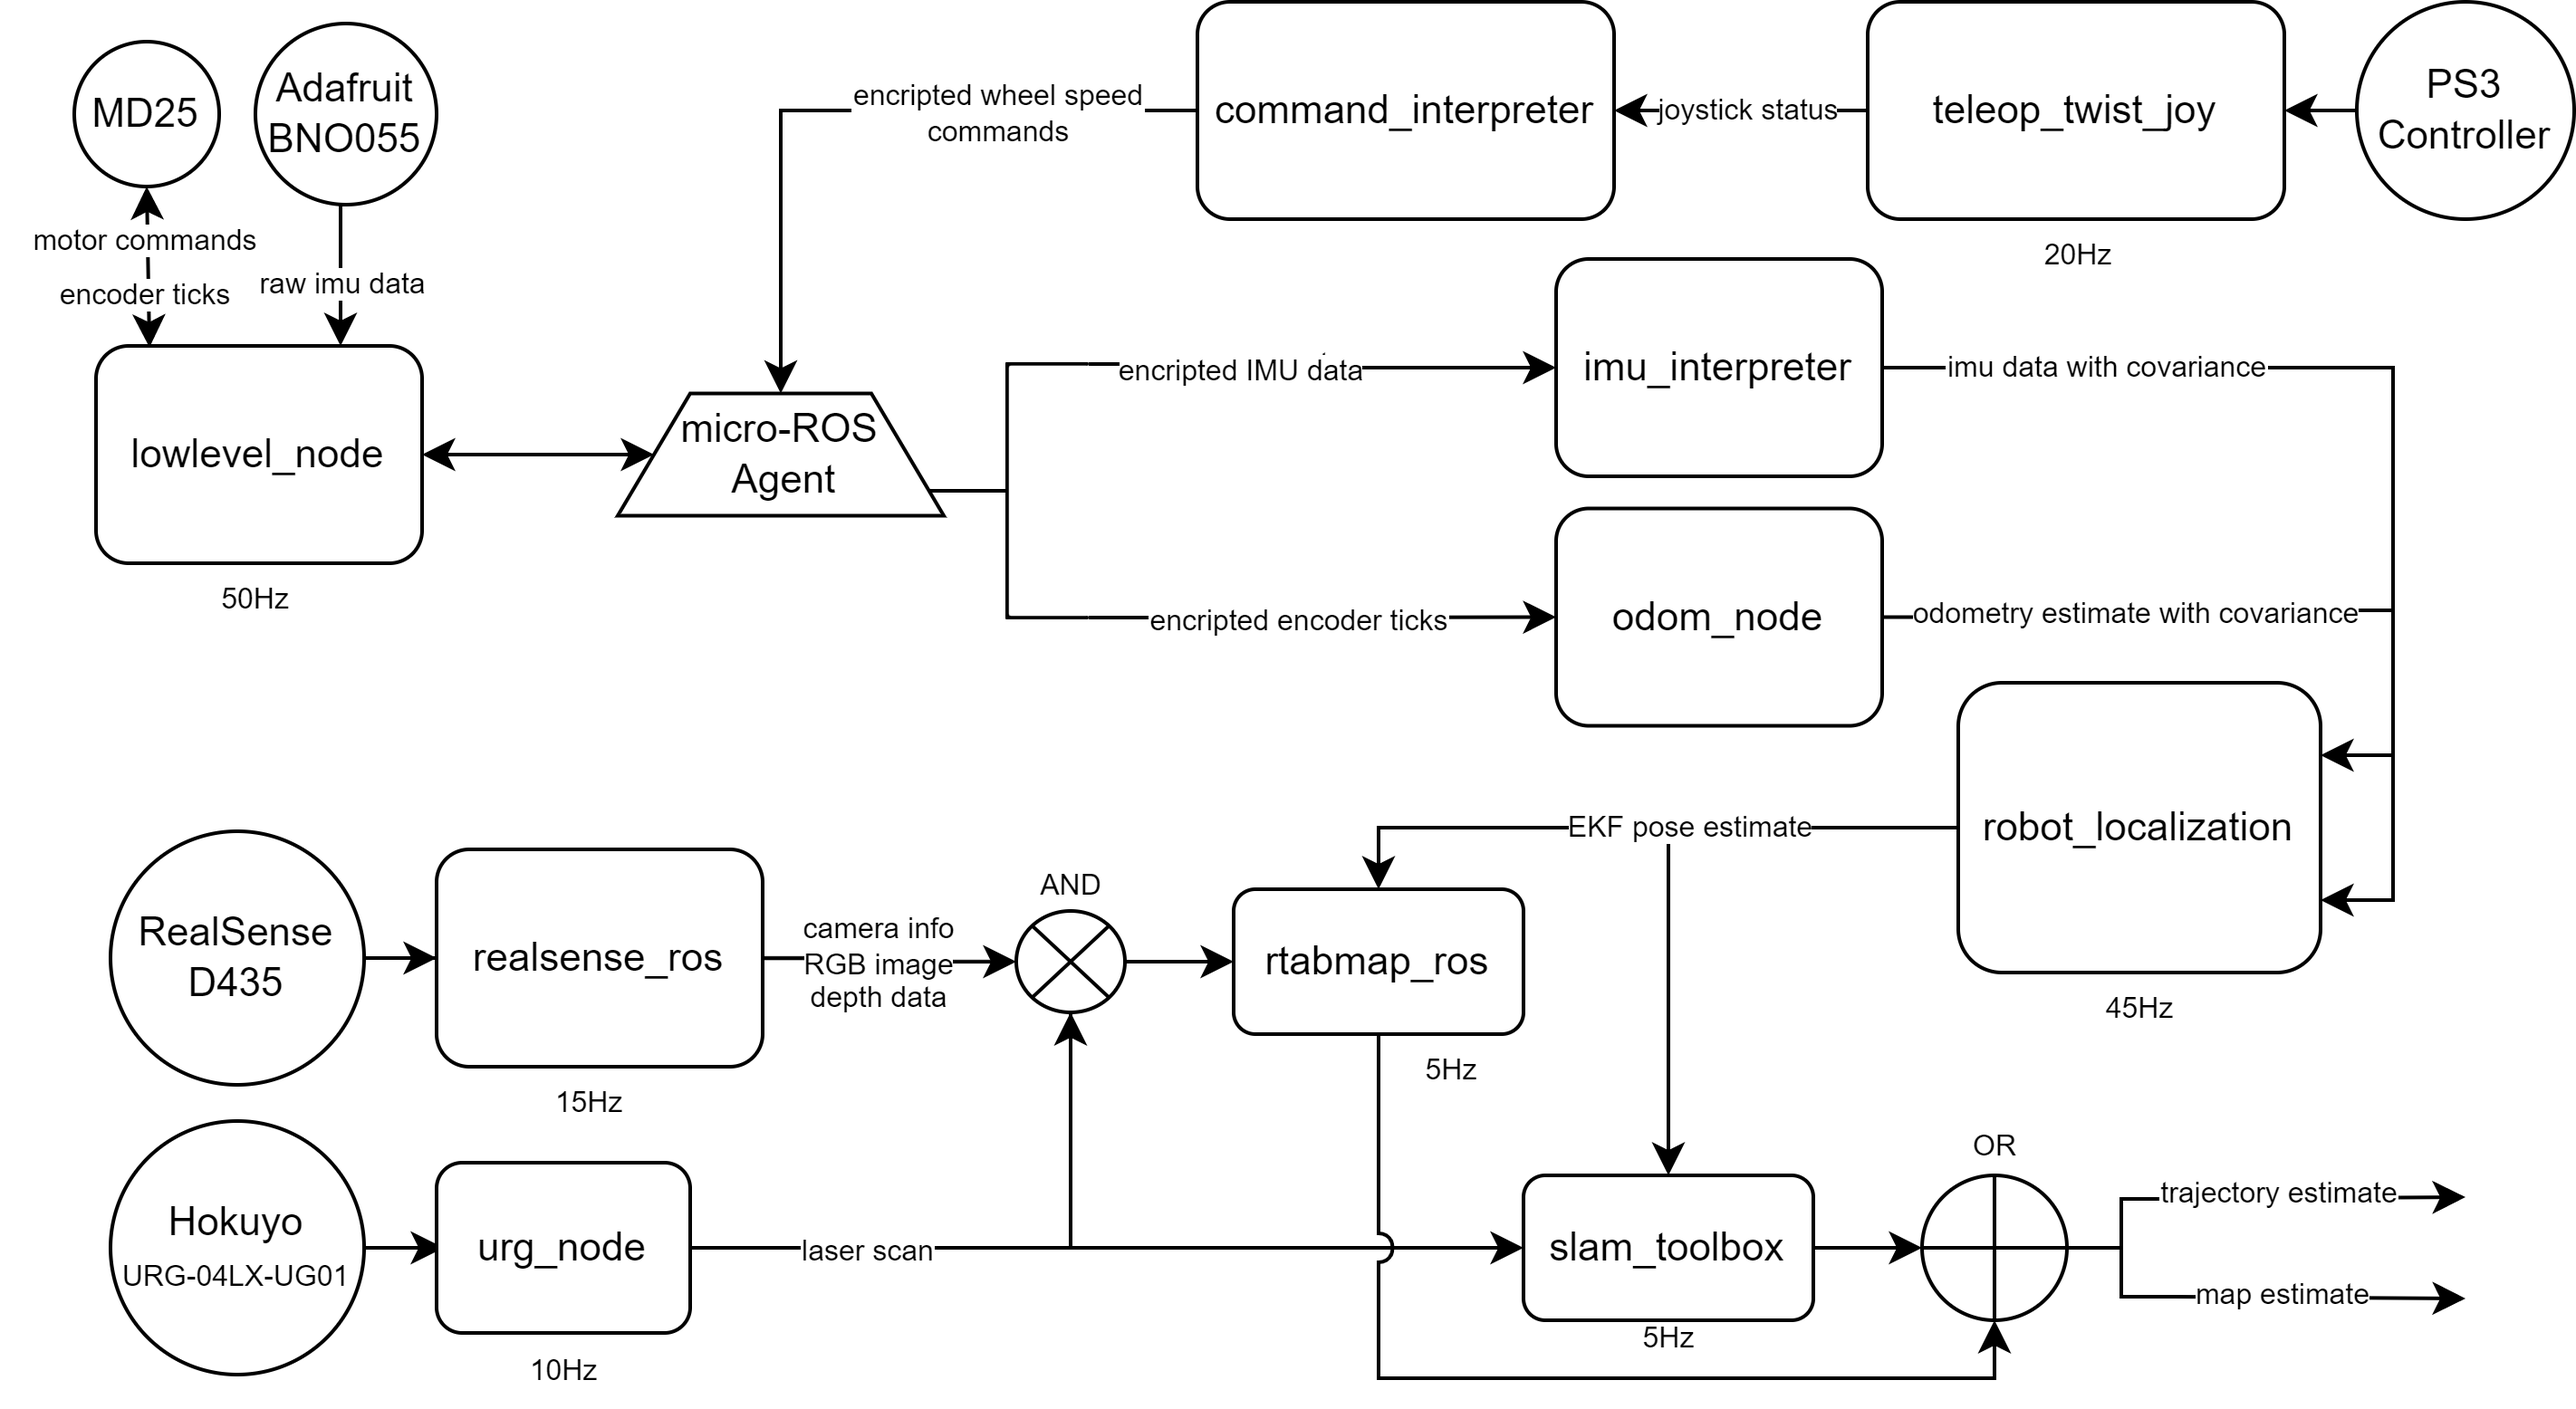
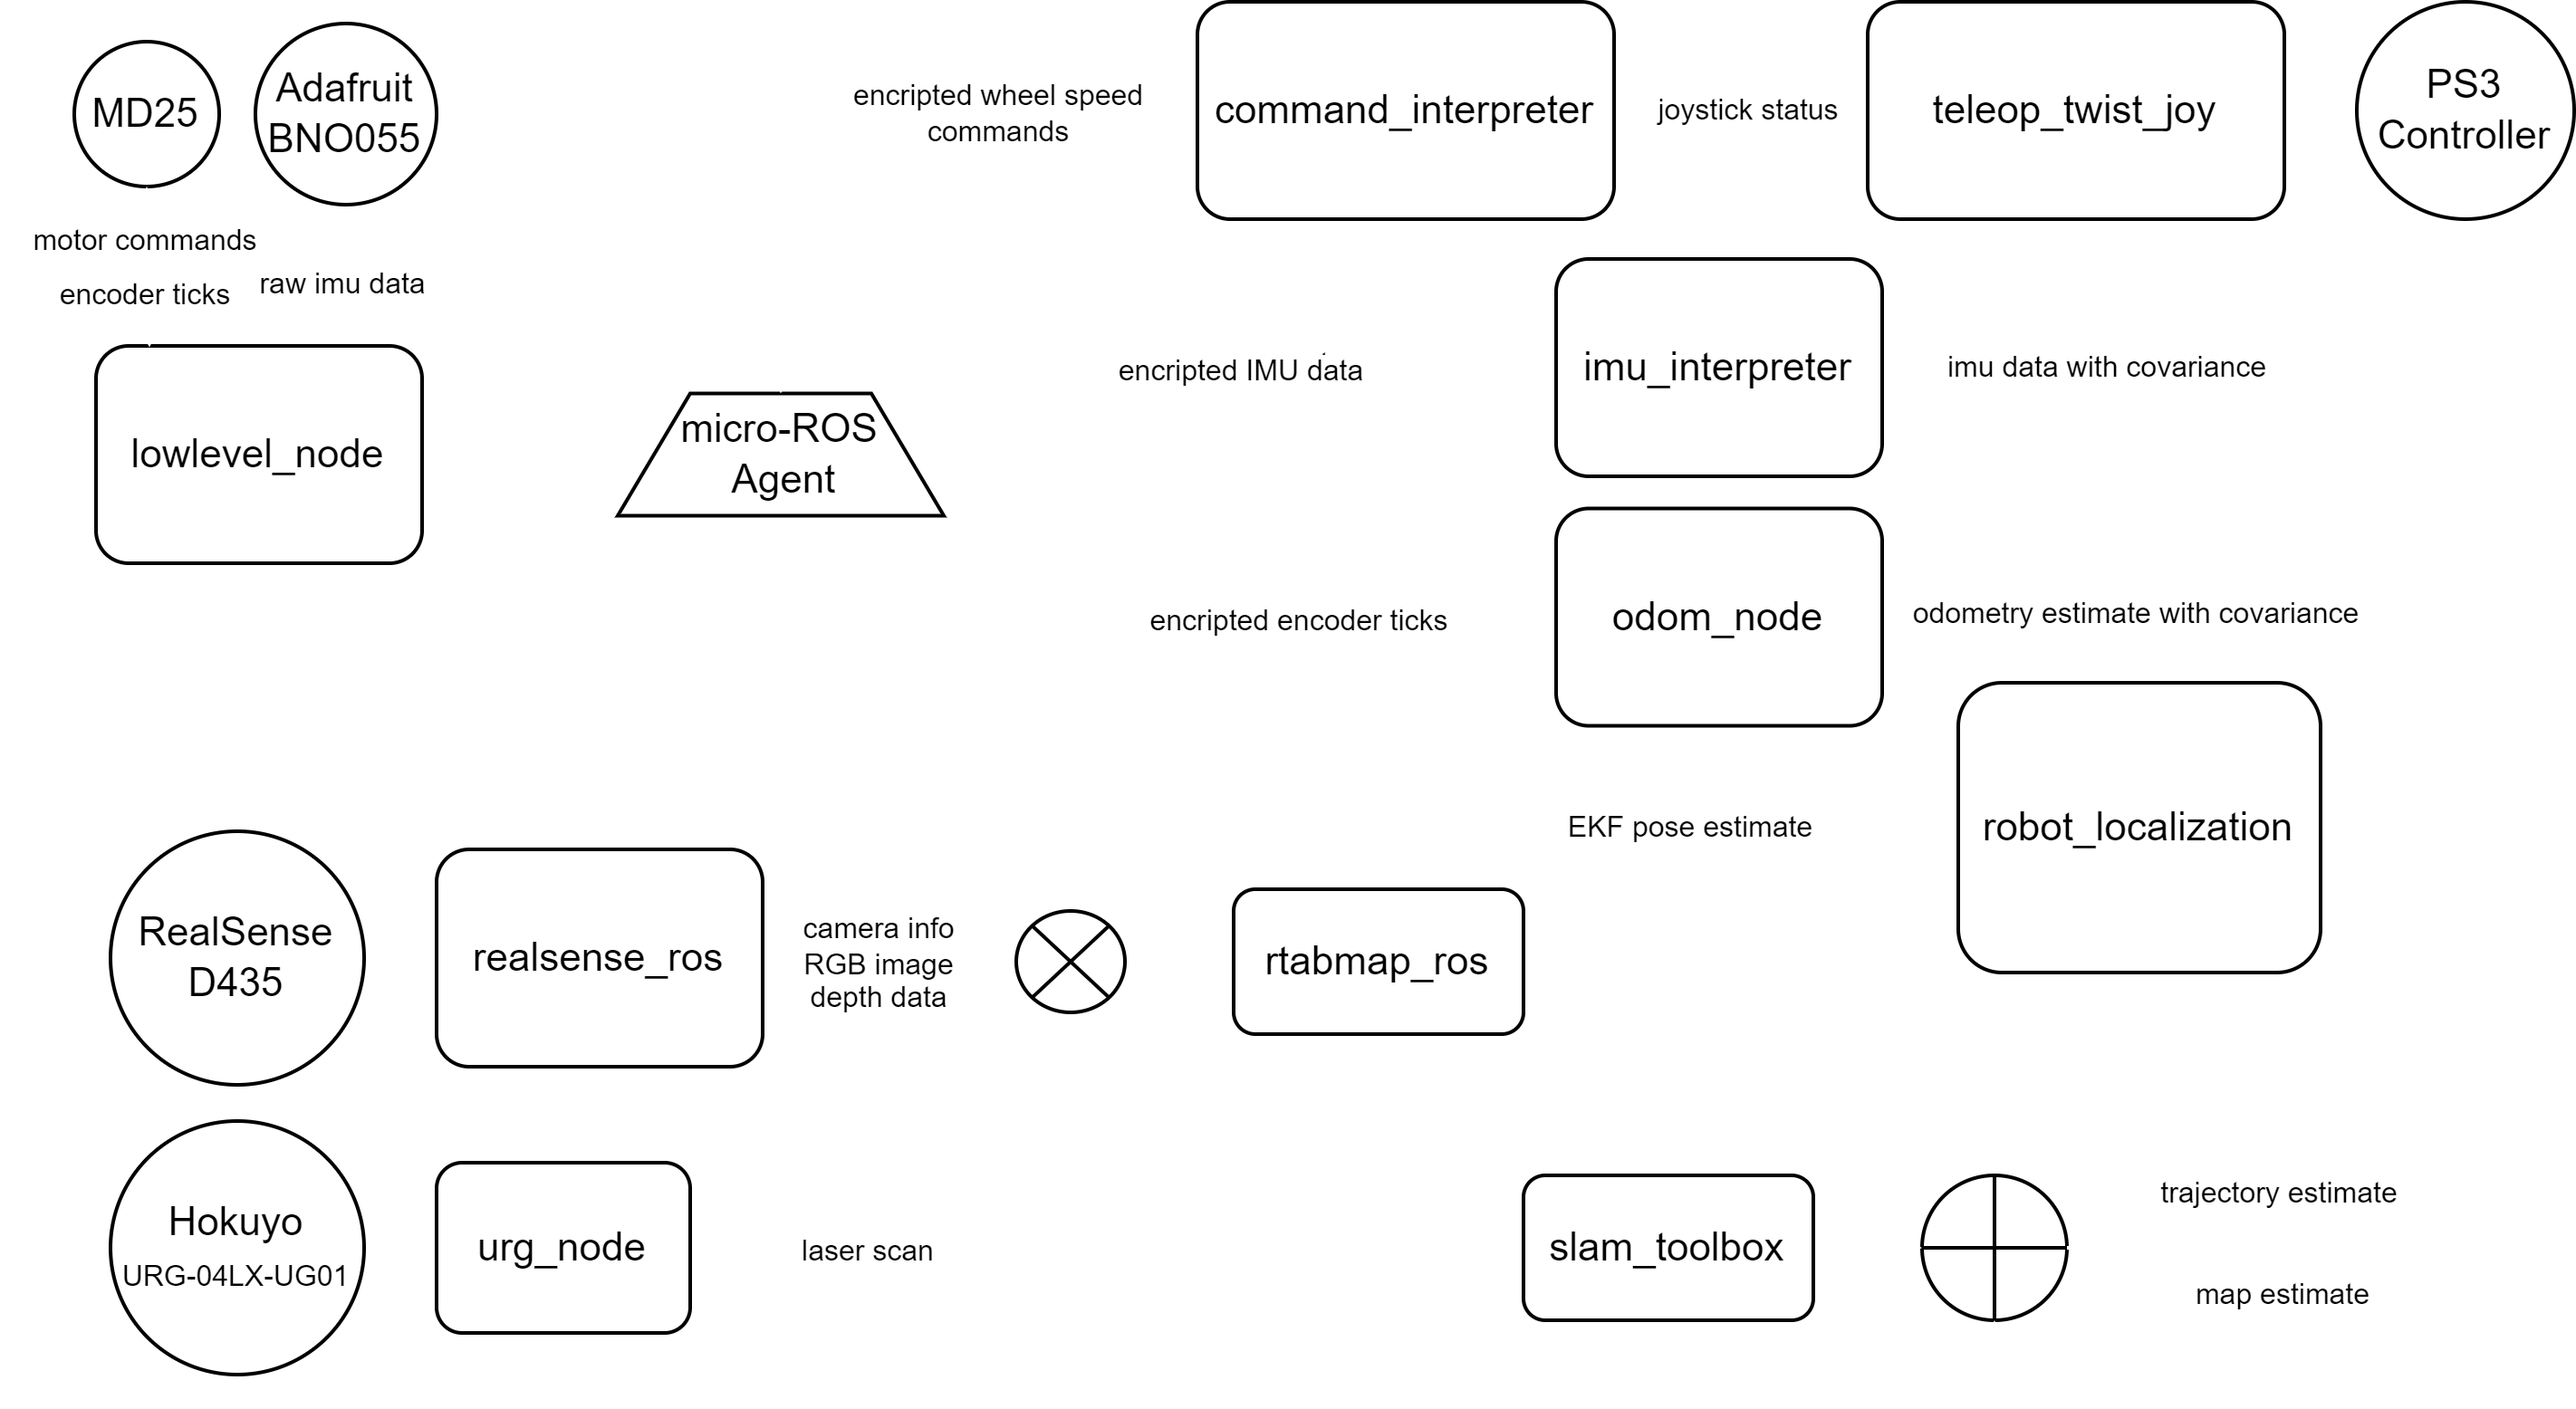
[running the robot readme]: other version of diagram for better visibility

diff --git a/RunningTheRobot.md b/RunningTheRobot.md
@@ -37,3 +37,5 @@ If something feels weird, normally the best policy is to turn whatever it is off
 ## Software Pipeline
 
 ![Alt text](Software%20Pipeline.png)
+
+_WORK IN PROGRESS_
